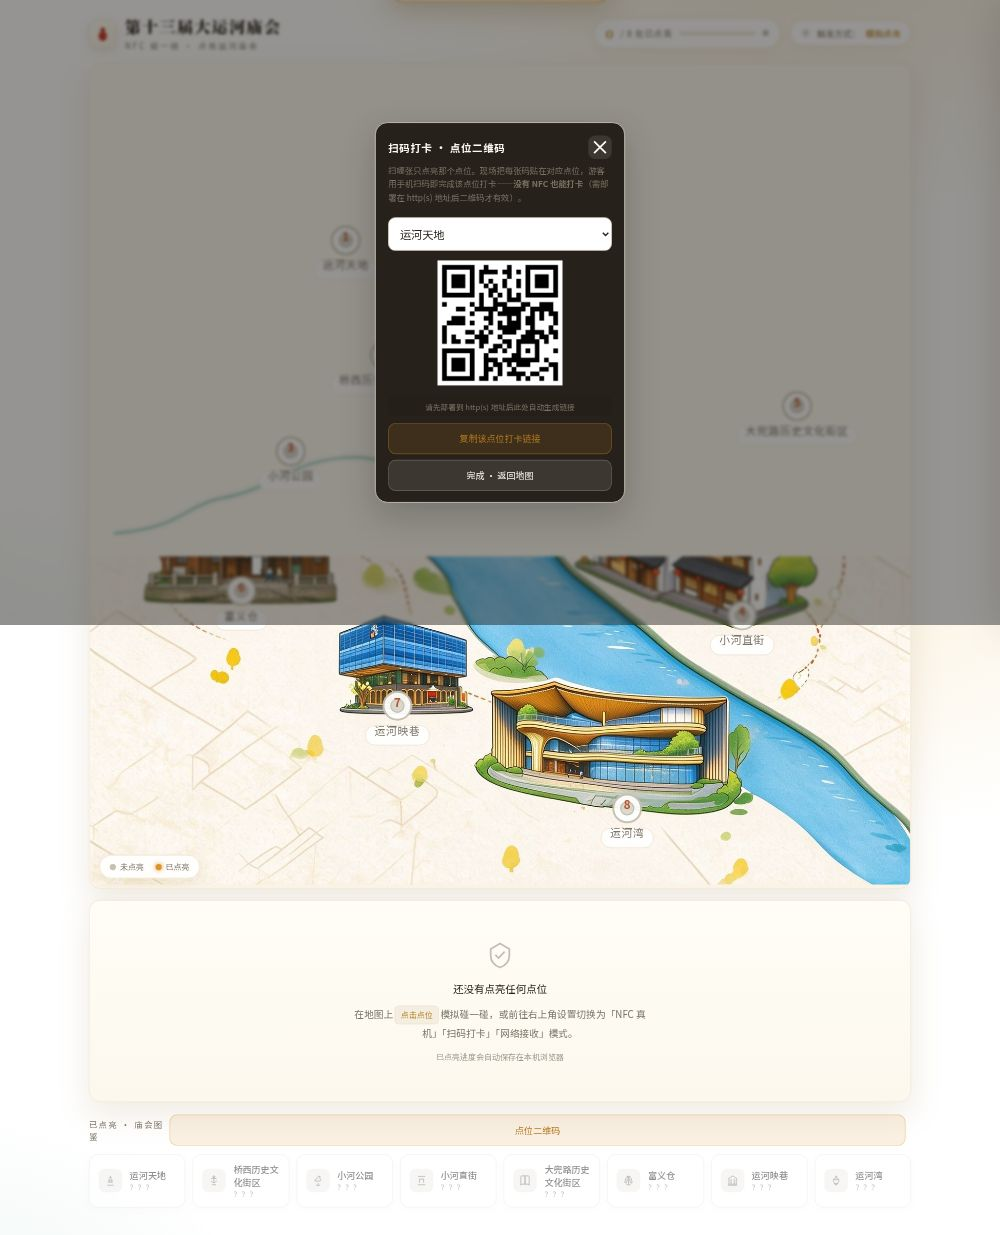
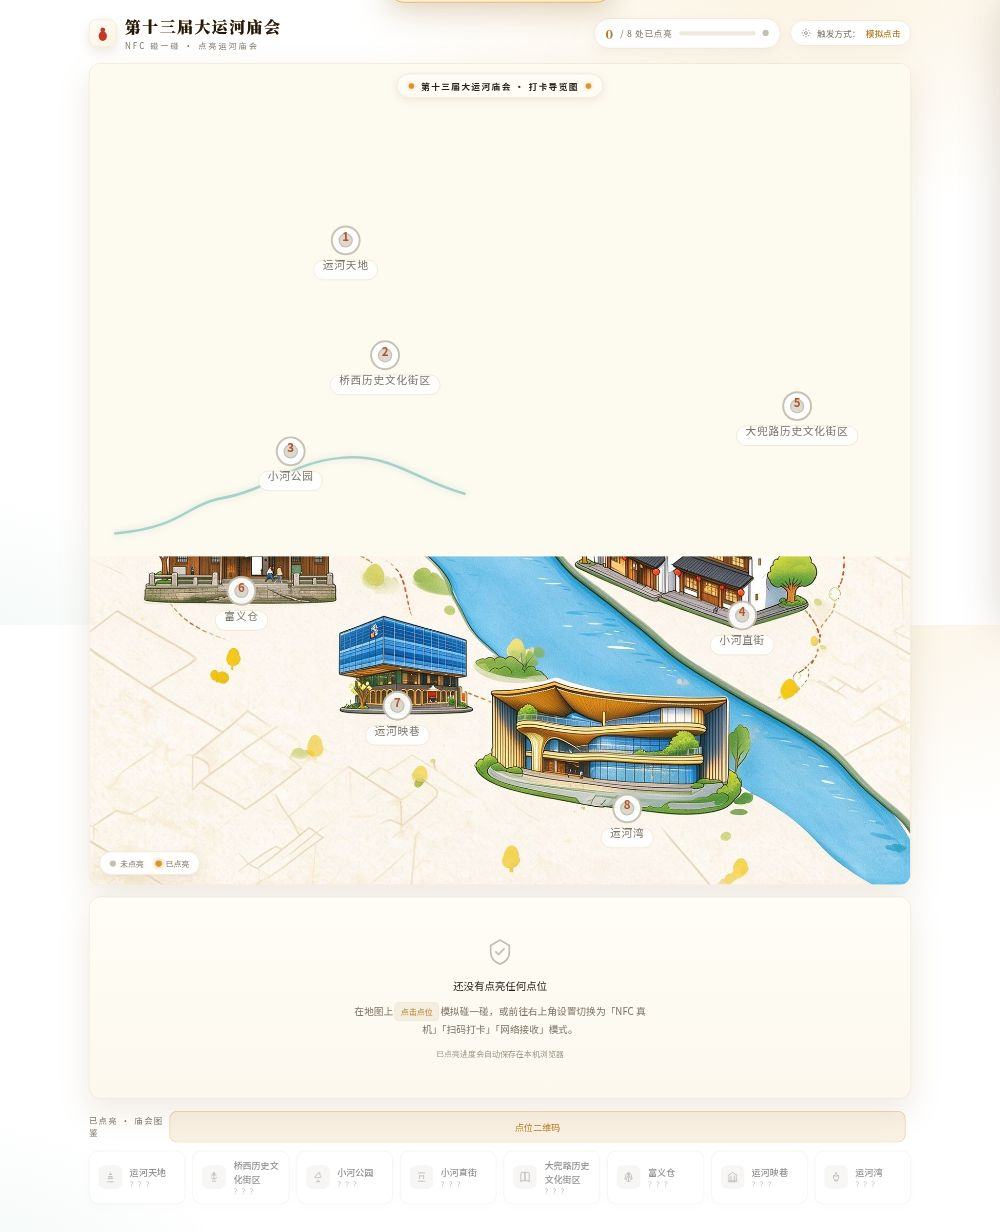
修复地图显示不完整(CSS选择器canvas误写svg致SVG高度错乱)+页面美化(标题金色渐变/地图导览横幅/进度金化)

diff --git a/index.html b/index.html
@@ -70,7 +70,7 @@ button{font-family:inherit;cursor:pointer;border:none;background:none;color:inhe
   radial-gradient(900px 420px at 50% -5%, #fffdf5 0%, rgba(255,253,245,0) 60%),
   linear-gradient(180deg,#fffdf6,#fbf4e6);
   border:1px solid var(--line);box-shadow:var(--shadow)}
-.stage canvas.svg-map{display:block;width:100%;height:auto}
+.stage svg.svg-map{display:block;width:100%;height:auto}
 .legend{position:absolute;left:14px;bottom:14px;display:flex;gap:16px;font-size:11.5px;color:var(--paper-dim);background:rgba(255,255,255,.9);backdrop-filter:blur(6px);padding:8px 14px;border-radius:999px;border:1px solid var(--line);box-shadow:0 6px 16px rgba(150,115,60,.1)}
 .legend i{display:inline-block;width:9px;height:9px;border-radius:50%;margin-right:6px;vertical-align:-1px}
 .legend .li{display:flex;align-items:center}
@@ -236,6 +236,10 @@ svg .island{fill:rgba(143,196,186,.16)}
 .qr-modal .d-close{width:34px;height:34px;border-radius:10px;background:rgba(255,255,255,.1);border:none;display:grid;place-items:center;cursor:pointer;color:var(--ink)}
 .qr-note{color:var(--paper-dim);font-size:12px;line-height:1.6;margin:6px 0 10px}
 .qr-link{word-break:break-all;font-size:11px;color:var(--paper-dim);text-align:center;padding:6px 8px;background:rgba(0,0,0,.04);border-radius:8px;margin-top:2px}
+.brand-title{font-size:clamp(21px,3.2vw,32px);letter-spacing:2px;font-weight:800;background:linear-gradient(120deg,#8a4b12 0%,#c78a2e 45%,#8a4b12 100%);-webkit-background-clip:text;background-clip:text;color:transparent}
+.stage-tag{position:absolute;top:14px;left:50%;transform:translateX(-50%);z-index:10;display:flex;align-items:center;gap:10px;background:rgba(255,253,246,.92);border:1px solid var(--line);box-shadow:0 4px 14px rgba(150,115,60,.12);color:var(--paper);font-size:12.5px;font-weight:600;letter-spacing:2px;padding:7px 16px;border-radius:999px;backdrop-filter:blur(4px)}
+.st-mark{width:8px;height:8px;border-radius:50%;background:var(--gold);box-shadow:0 0 6px rgba(217,150,46,.6)}
+.progress-pill .num{color:var(--gold-bright);font-weight:800}
 </style>
 </head>
 <body>
@@ -248,7 +252,7 @@ svg .island{fill:rgba(143,196,186,.16)}
         <svg viewBox="0 0 24 24" fill="none"><ellipse cx="12" cy="16" rx="6" ry="7" fill="#c0392b"/><rect x="9" y="6" width="6" height="4" rx="2" fill="#d9962e"/><circle cx="12" cy="7" r="3.4" fill="#c0392b"/></svg>
       </div>
       <div>
-        <h1>第十三届大运河庙会</h1>
+        <h1 class="brand-title">第十三届大运河庙会</h1>
         <div class="sub">NFC 碰一碰 · 点亮运河庙会</div>
       </div>
     </div>
@@ -266,6 +270,7 @@ svg .island{fill:rgba(143,196,186,.16)}
 
   <!-- ===== 地图 ===== -->
   <section class="stage">
+    <div class="stage-tag"><span class="st-mark"></span>第十三届大运河庙会 · 打卡导览图<span class="st-mark"></span></div>
     <svg class="svg-map" id="mapSvg" viewBox="0 0 1000 1000" role="img" aria-label="第十三届大运河庙会地图">
       <defs>
         <radialGradient id="haloG" cx="50%" cy="50%" r="50%">
